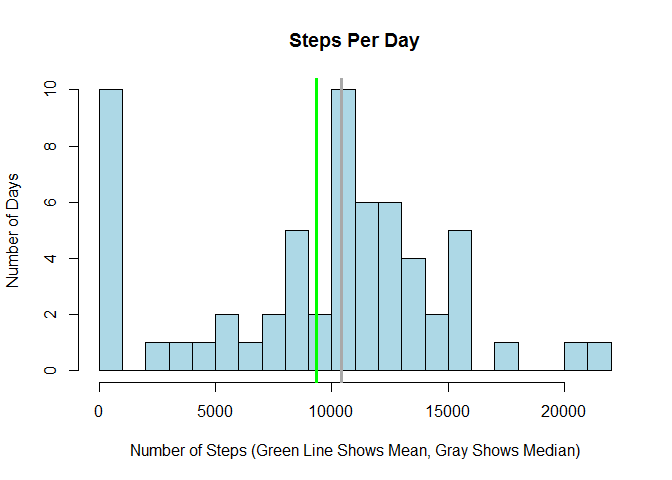
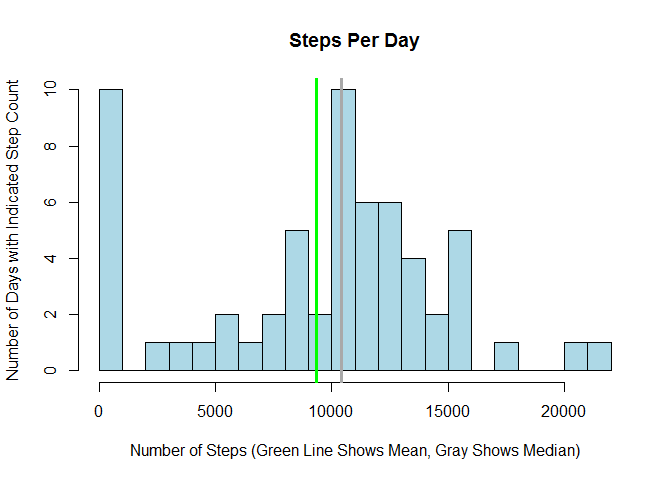
Fixed minor typos and spelling errors. Added more comments.

Changed region(s): [[0.0, 0.1562, 0.0312, 0.7812]]

diff --git a/PA1_template.html b/PA1_template.html
@@ -64,7 +64,7 @@ img {
 </div>
 
 
-<p>This investigates step counts, aggregated to 5 minute intervals.</p>
+<p>This investigates step counts, aggregated to 5 minute intervals. The assignment data was delivered as a zip file. That was hand unzipped to create activity.csv which is loaded just below this.</p>
 <div id="loading-and-preprocessing-the-data" class="section level2">
 <h2>Loading and preprocessing the data</h2>
 <pre class="r"><code>library(data.table) # For fread()
@@ -75,20 +75,20 @@ str(StepTimeSeries)</code></pre>
 ##  $ date    : chr  &quot;2012-10-01&quot; &quot;2012-10-01&quot; &quot;2012-10-01&quot; &quot;2012-10-01&quot; ...
 ##  $ interval: int  0 5 10 15 20 25 30 35 40 45 ...
 ##  - attr(*, &quot;.internal.selfref&quot;)=&lt;externalptr&gt;</code></pre>
-<p>Note that date was read in as character data. That’s OK for our purposes. Also note that step is an int which is OK but that logically it is the name of a 5 minute interval in hhmm format.</p>
+<p>Note that date was read in as character data. That’s OK for our purposes. Also note that steps is an int which is OK but that logically it is the name of a 5 minute interval in hhmm format.</p>
 </div>
 <div id="what-is-mean-total-number-of-steps-taken-per-day" class="section level2">
 <h2>What is mean total number of steps taken per day?</h2>
-<p>This analysis assumes that days for which the data are missing are days in which no steps were taken.</p>
+<p>This part of this analysis assumes that days for which the data are missing are days in which no steps were taken.</p>
 <pre class="r"><code>StepsPerDay = StepTimeSeries[,sum(steps,na.rm=T),by=date]
 MeanStepsPerDay=StepsPerDay[,mean(V1)]
 MedianStepsPerDay=StepsPerDay[,median(V1)]
 hist(StepsPerDay$V1,breaks=20,main='Steps Per Day',
      xlab='Number of Steps (Green Line Shows Mean, Gray Shows Median)',
-     ylab='Number of Days',col='lightblue')
+     ylab='Number of Days with Indicated Step Count',col='lightblue')
 abline(v=MeanStepsPerDay,col='green',lwd=3)
 abline(v=MedianStepsPerDay,col='darkgrey',lwd=3)</code></pre>
[2 lines of base64/hex data omitted]
 <p>Given that assumption, the histogram above shows for how many days each approximate count of steps was recorded.</p>
 <p>The median day recorded 10395 steps and the mean number of steps per day was 9354. These are shown by the vertical lines on the above plot.</p>
 </div>
@@ -97,8 +97,8 @@ abline(v=MedianStepsPerDay,col='darkgrey',lwd=3)</code></pre>
 <pre class="r"><code>StepsPerInterval = StepTimeSeries[,sum(steps,na.rm=T),by=interval]
 invisible(StepsPerInterval[,StepsPerIntervalPerDay:=V1/nrow(StepsPerDay)])
 with(StepsPerInterval,plot(interval,StepsPerIntervalPerDay,type='l',xlab='5 minute intervals, 0 is midnight',
-                           ylab='Steps per Day',main='Mean number of steps for each interval'))</code></pre>
[1 lines of base64/hex data omitted]
+    ylab='Average Steps per Day per Interval',main='Mean number of steps for each interval'))</code></pre>
[1 lines of base64/hex data omitted]
 <pre class="r"><code>MaxStepsInterval = StepsPerInterval$interval[which.max(StepsPerInterval$StepsPerIntervalPerDay)]</code></pre>
 <p>The 5 minute interval with the highest average step count per day is 835 which is more conventionaly displayed as 8:35 (h:mm). lol, perhaps that corresponds to the daily dog walk.</p>
 </div>
@@ -110,9 +110,13 @@ NumNA = sum(is.na(StepTimeSeries)) # For the entire TimeSeries</code></pre>
 <p>That’s a lot of NAs! So the results reported here so far are skewed. To reduce this bias, fill in each NA with the mean for its interval over the non NA values.</p>
 <pre class="r"><code>NonNATimeSeries = StepTimeSeries[!is.na(StepTimeSeries$step)]
 NonNAStepsPerInterval = NonNATimeSeries[,sum(steps),by=interval]
+# The below is a quick and dirty approximation which could be improved by averaging
+# over the non NA days for each interval rather than all days in the dataset.
 invisible(NonNAStepsPerInterval[,NonNAStepsPerIntervalPerDay:=V1/nrow(StepsPerDay)])
 setkey(StepTimeSeries,interval) # So we can join on interval
 ImputeTS = StepTimeSeries[NonNAStepsPerInterval]
+# ImputeTS now has everything in the original dataset plus an extra variable ImputedSteps
+# which has the NA values replaced with the imputed values.
 invisible(ImputeTS[,ImputedSteps:=NonNAStepsPerIntervalPerDay])
 ImputeTS$ImputedSteps[!is.na(ImputeTS$steps)] = ImputeTS$steps[!is.na(ImputeTS$steps)]
 # Now repeat the earlier analysis but include the imputed values instead of 0 for NA
@@ -130,7 +134,9 @@ abline(v=NonMedianStepsPerDay,col='darkgrey',lwd=3)</code></pre>
 <div id="are-there-differences-in-activity-patterns-between-weekdays-and-weekends" class="section level2">
 <h2>Are there differences in activity patterns between weekdays and weekends?</h2>
 <p>Let’s plot the steps per interval on stacked plots, one for weekend days and the other for weekday days, to find out.</p>
-<pre class="r"><code>ImputeTS$DayOfWeekType = factor(as.integer(as.POSIXlt(ImputeTS$date)$wday %in% c(0,6)))
+<pre class="r"><code># Add a new factor variable to the dataset that indicates Weekday vs. Weekend.
+ImputeTS$DayOfWeekType = factor(as.integer(as.POSIXlt(ImputeTS$date)$wday %in% c(0,6)))
+# Set the level text to make it easier to use the factor.
 levels(ImputeTS$DayOfWeekType) = c('Weekday','Weekend')
 StepsPerIntervalAndDoWT = ImputeTS[,sum(ImputedSteps),by='interval,DayOfWeekType']
 StepsPerDay$DayOfWeekType = factor(as.integer(as.POSIXlt(StepsPerDay$date)$wday %in% c(0,6)))
@@ -140,9 +146,8 @@ setkey(StepsPerIntervalAndDoWT,DayOfWeekType)
 invisible(StepsPerIntervalAndDoWT[DoWTCounts,Ave:=V1/N])
 with(StepsPerIntervalAndDoWT,coplot(Ave~interval|DayOfWeekType,type='l',show.given=F,columns=1,
                                     ylab='Weekdays   Steps per Day   Weekend',
-                                    main='Mean number of steps for each interval',
-                                    xlab='5 minute intervals, 0 is midnight'))</code></pre>
[1 lines of base64/hex data omitted]
+        xlab=c('5 minute intervals, 0 is midnight','Mean number of steps for each interval')))</code></pre>
[1 lines of base64/hex data omitted]
 <p>Yes, the pattern is quite different when comparing weekdays to weekends. Weekends tend to require fewer steps, but show a higher spike than weekdays.</p>
 </div>
 

diff --git a/PA1_template.md b/PA1_template.md
@@ -1,6 +1,6 @@
 # Reproducible Research: Peer Assessment 1
 
-This investigates step counts, aggregated to 5 minute intervals.
+This investigates step counts, aggregated to 5 minute intervals. The assignment data was delivered as a zip file. That was hand unzipped to create activity.csv which is loaded just below this.
 
 ## Loading and preprocessing the data
 
@@ -19,11 +19,11 @@ str(StepTimeSeries)
 ##  - attr(*, ".internal.selfref")=<externalptr>
 ```
 
-Note that date was read in as character data. That's OK for our purposes. Also note that step is an int which is OK but that logically it is the name of a 5 minute interval in hhmm format.
+Note that date was read in as character data. That's OK for our purposes. Also note that steps is an int which is OK but that logically it is the name of a 5 minute interval in hhmm format.
 
 ## What is mean total number of steps taken per day?
 
-This analysis assumes that days for which the data are missing are days in which no steps were taken.
+This part of this analysis assumes that days for which the data are missing are days in which no steps were taken.
 
 ```r
 StepsPerDay = StepTimeSeries[,sum(steps,na.rm=T),by=date]
@@ -31,7 +31,7 @@ MeanStepsPerDay=StepsPerDay[,mean(V1)]
 MedianStepsPerDay=StepsPerDay[,median(V1)]
 hist(StepsPerDay$V1,breaks=20,main='Steps Per Day',
      xlab='Number of Steps (Green Line Shows Mean, Gray Shows Median)',
-     ylab='Number of Days',col='lightblue')
+     ylab='Number of Days with Indicated Step Count',col='lightblue')
 abline(v=MeanStepsPerDay,col='green',lwd=3)
 abline(v=MedianStepsPerDay,col='darkgrey',lwd=3)
 ```
@@ -49,7 +49,7 @@ The median day recorded 10395 steps and the mean number of steps per day was 935
 StepsPerInterval = StepTimeSeries[,sum(steps,na.rm=T),by=interval]
 invisible(StepsPerInterval[,StepsPerIntervalPerDay:=V1/nrow(StepsPerDay)])
 with(StepsPerInterval,plot(interval,StepsPerIntervalPerDay,type='l',xlab='5 minute intervals, 0 is midnight',
-                           ylab='Steps per Day',main='Mean number of steps for each interval'))
+    ylab='Average Steps per Day per Interval',main='Mean number of steps for each interval'))
 ```
 
 ![](PA1_template_files/figure-html/unnamed-chunk-3-1.png) 
@@ -76,9 +76,13 @@ That's a lot of NAs! So the results reported here so far are skewed. To reduce t
 ```r
 NonNATimeSeries = StepTimeSeries[!is.na(StepTimeSeries$step)]
 NonNAStepsPerInterval = NonNATimeSeries[,sum(steps),by=interval]
+# The below is a quick and dirty approximation which could be improved by averaging
+# over the non NA days for each interval rather than all days in the dataset.
 invisible(NonNAStepsPerInterval[,NonNAStepsPerIntervalPerDay:=V1/nrow(StepsPerDay)])
 setkey(StepTimeSeries,interval) # So we can join on interval
 ImputeTS = StepTimeSeries[NonNAStepsPerInterval]
+# ImputeTS now has everything in the original dataset plus an extra variable ImputedSteps
+# which has the NA values replaced with the imputed values.
 invisible(ImputeTS[,ImputedSteps:=NonNAStepsPerIntervalPerDay])
 ImputeTS$ImputedSteps[!is.na(ImputeTS$steps)] = ImputeTS$steps[!is.na(ImputeTS$steps)]
 # Now repeat the earlier analysis but include the imputed values instead of 0 for NA
@@ -103,7 +107,9 @@ Let's plot the steps per interval on stacked plots, one for weekend days and the
 
 
 ```r
+# Add a new factor variable to the dataset that indicates Weekday vs. Weekend.
 ImputeTS$DayOfWeekType = factor(as.integer(as.POSIXlt(ImputeTS$date)$wday %in% c(0,6)))
+# Set the level text to make it easier to use the factor.
 levels(ImputeTS$DayOfWeekType) = c('Weekday','Weekend')
 StepsPerIntervalAndDoWT = ImputeTS[,sum(ImputedSteps),by='interval,DayOfWeekType']
 StepsPerDay$DayOfWeekType = factor(as.integer(as.POSIXlt(StepsPerDay$date)$wday %in% c(0,6)))
@@ -113,8 +119,7 @@ setkey(StepsPerIntervalAndDoWT,DayOfWeekType)
 invisible(StepsPerIntervalAndDoWT[DoWTCounts,Ave:=V1/N])
 with(StepsPerIntervalAndDoWT,coplot(Ave~interval|DayOfWeekType,type='l',show.given=F,columns=1,
                                     ylab='Weekdays   Steps per Day   Weekend',
-                                    main='Mean number of steps for each interval',
-                                    xlab='5 minute intervals, 0 is midnight'))
+        xlab=c('5 minute intervals, 0 is midnight','Mean number of steps for each interval')))
 ```
 
 ![](PA1_template_files/figure-html/unnamed-chunk-6-1.png) 
